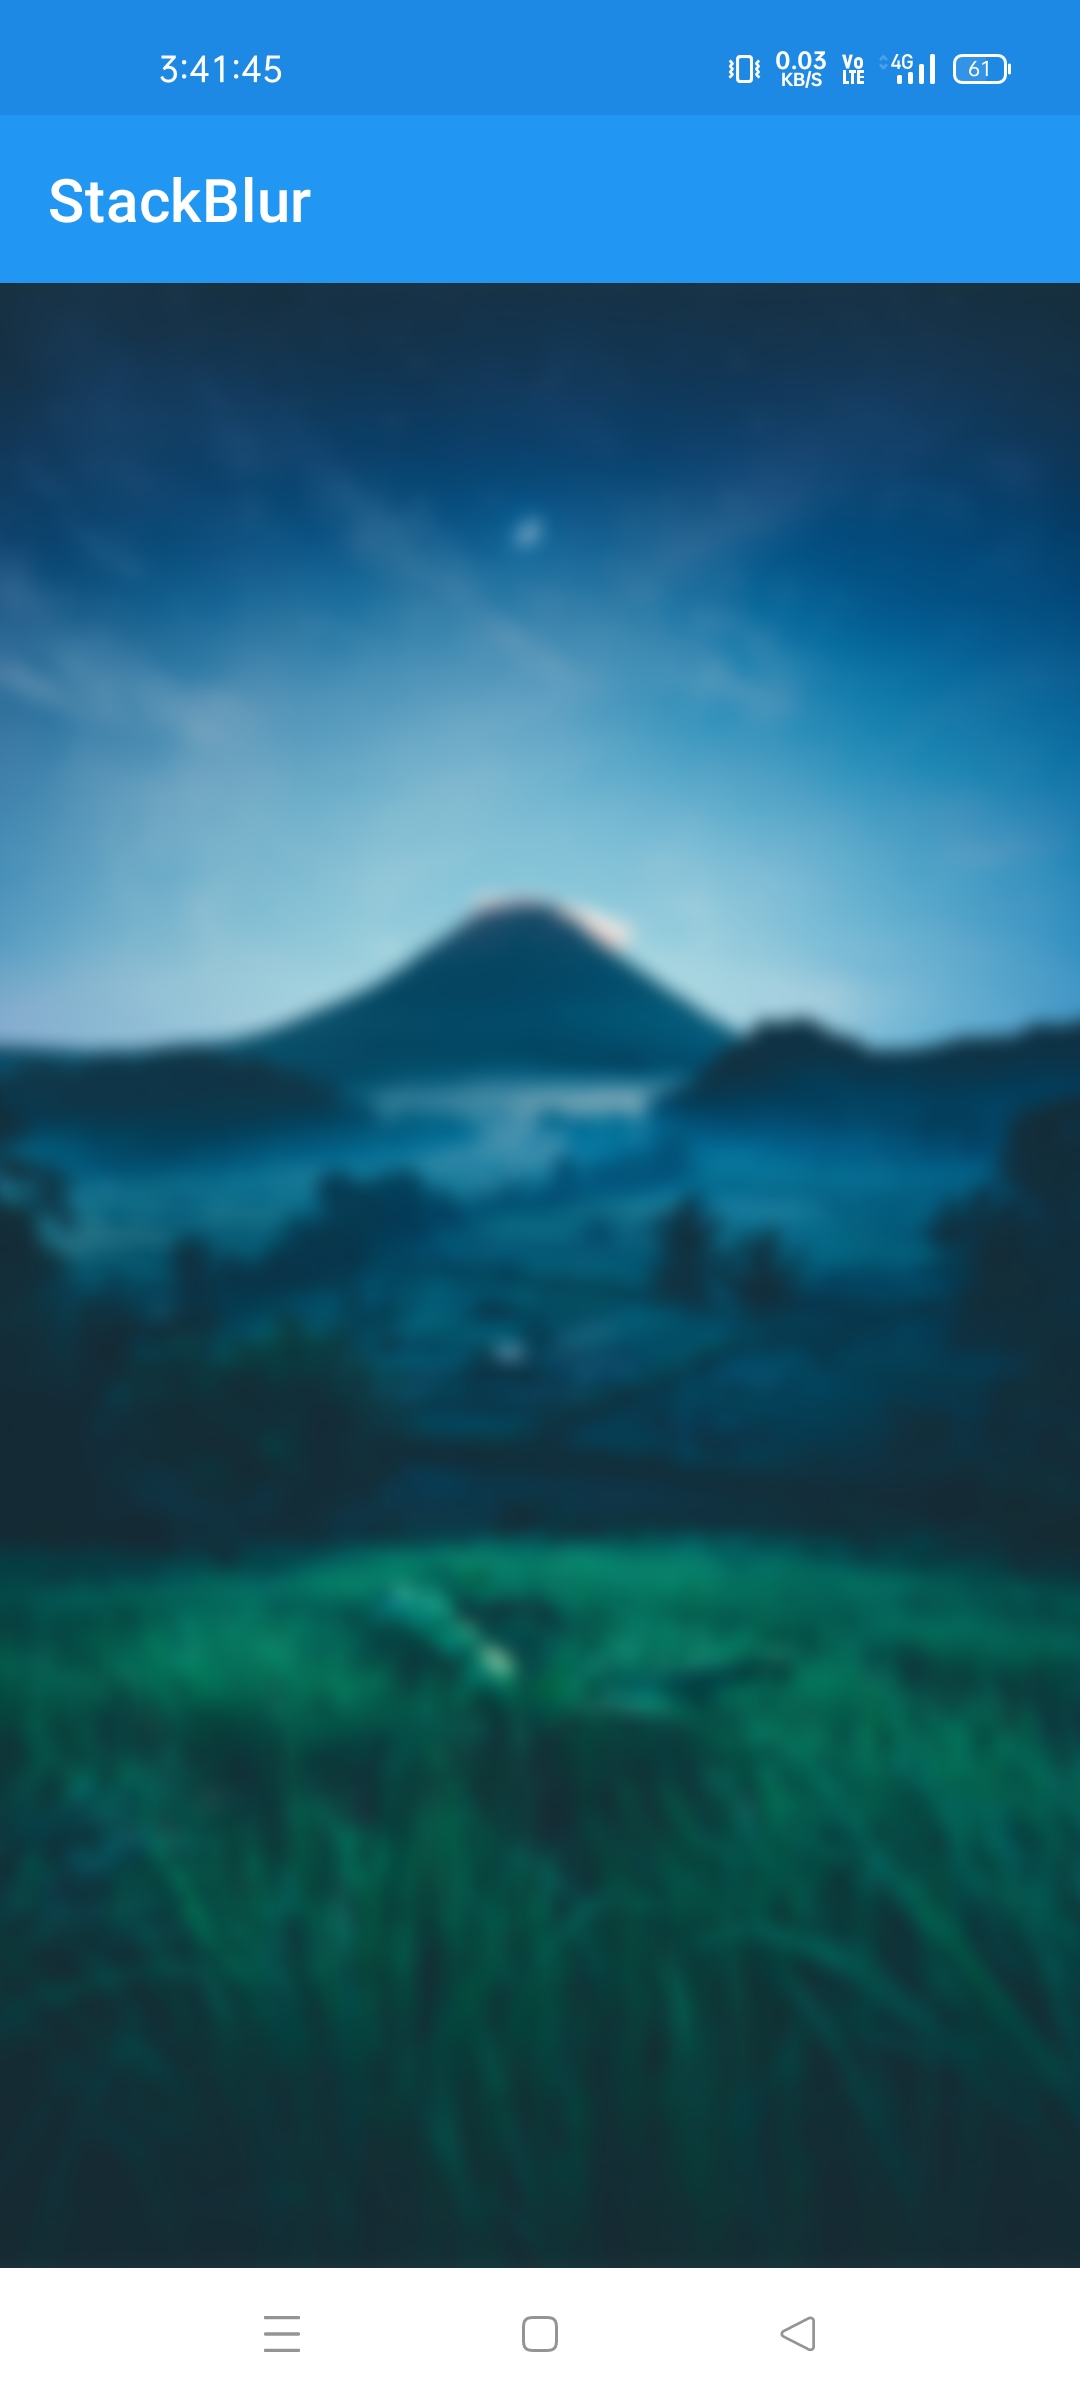
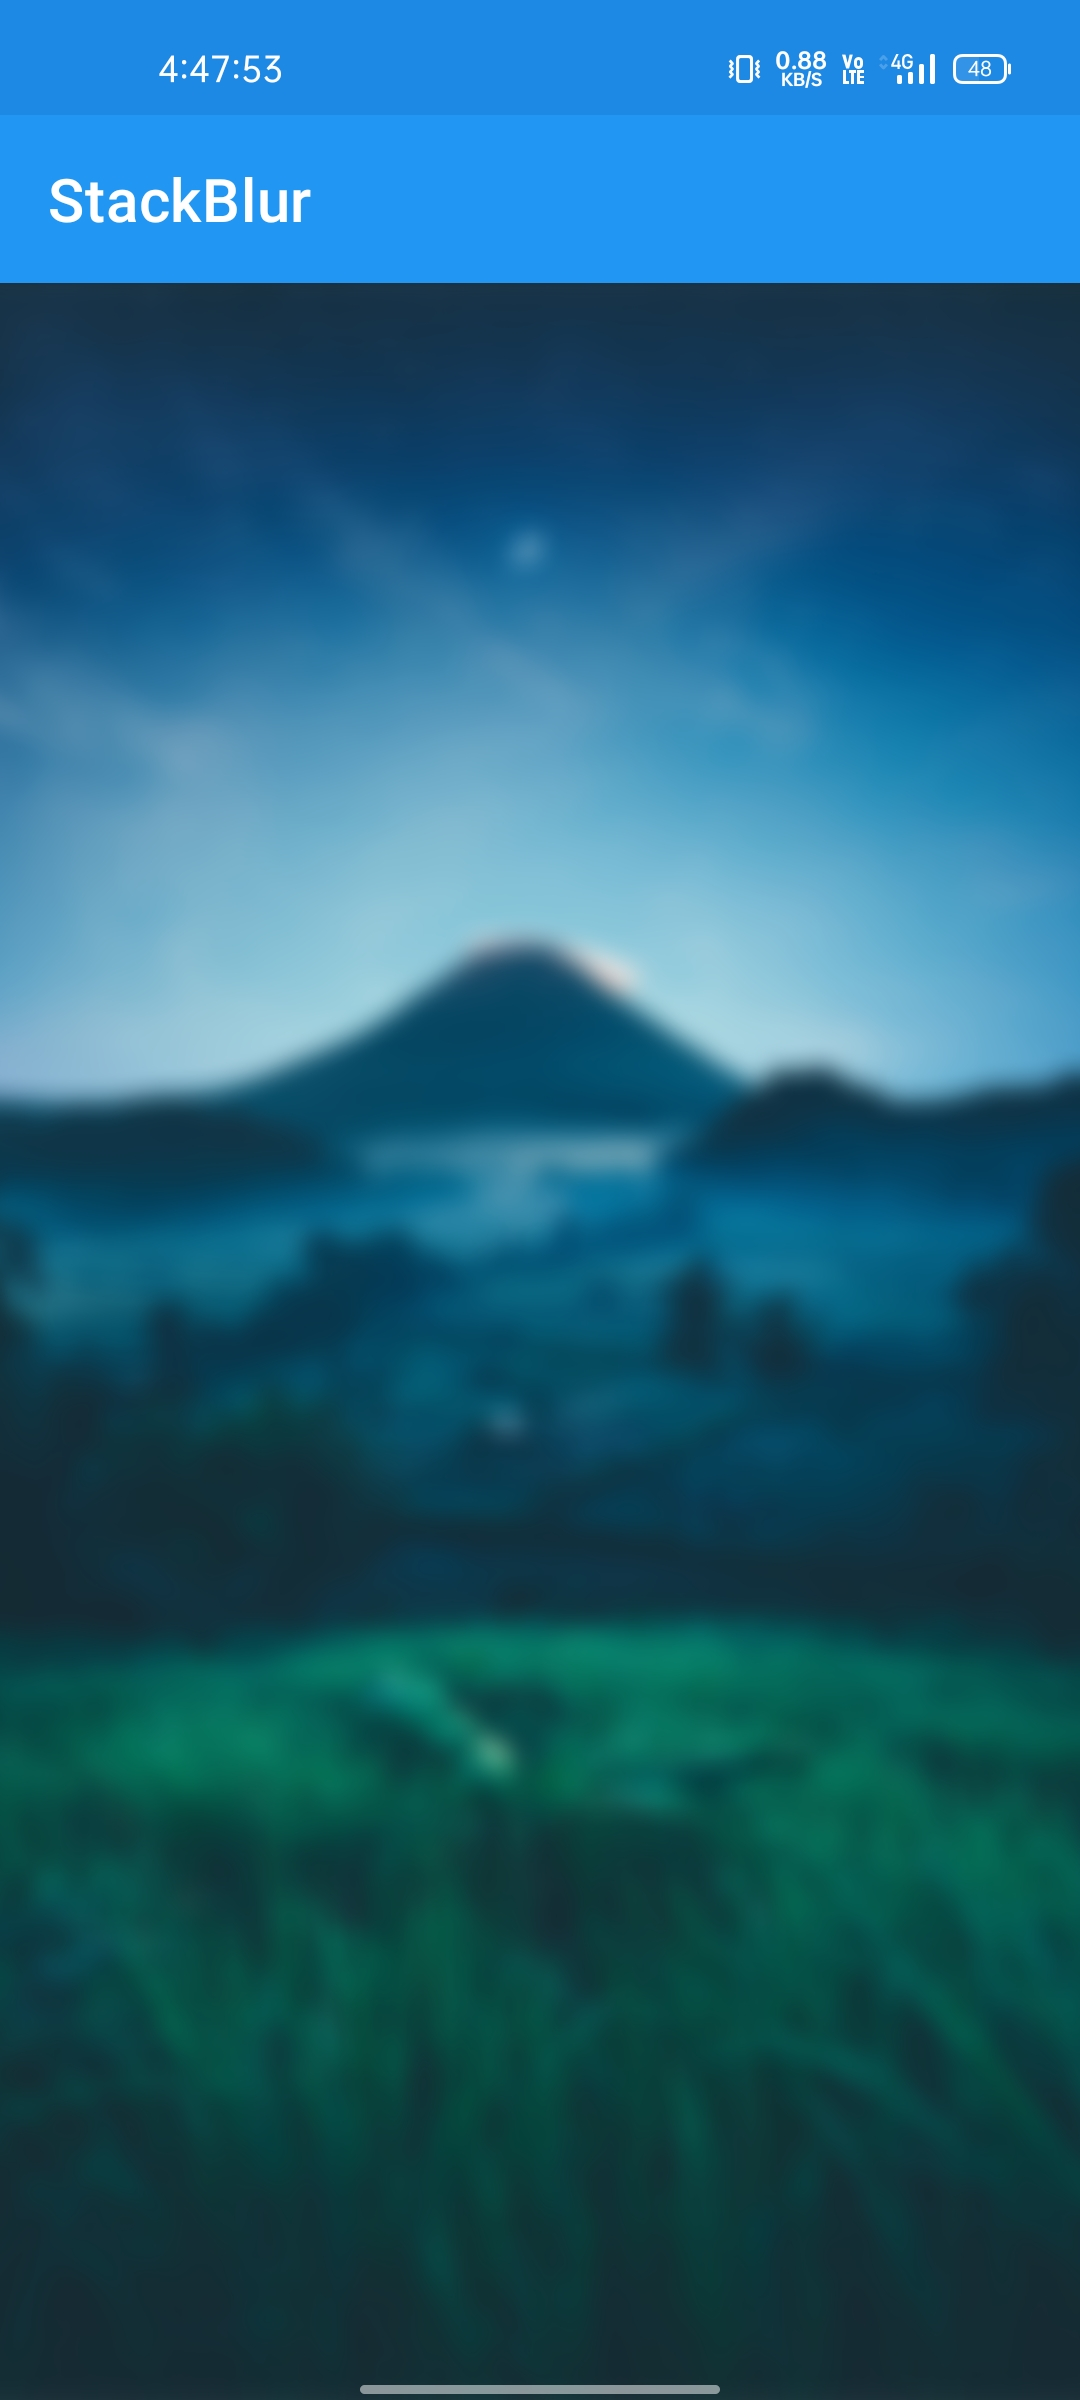
added init method in StackBlur.java

diff --git a/library/src/main/java/com/itsrohit/stackblur/StackBlur.java b/library/src/main/java/com/itsrohit/stackblur/StackBlur.java
@@ -3,17 +3,35 @@ package com.itsrohit.stackblur;
 import android.graphics.Bitmap;
 import java.util.concurrent.Callable;
 import java.util.ArrayList;
+import com.itsrohit.stackblur.utils.Utils;
+import android.util.Log;
 
 public class StackBlur {
+	
+	private static final String TAG = StackBlur.class.getSimpleName();
+	
 	private static native void sBlurBitmap(Bitmap bitmap, int radius);
     private static native void sBlurBitmap2(Bitmap bitmap, int radius, int threadCount, int threadIndex, int round);
 	
-    static {
-        System.loadLibrary("stackblur");
-    }
+	private static String LIB_NAME = "stackblur";
+	private static boolean libLoaded = false;
+	
+	static {
+		initLib();
+	}
+	
+	public static void initLib() {
+		if (libLoaded) {
+			return;
+		}
+	
+		System.loadLibrary(LIB_NAME);
+		libLoaded = true;
+	}
 
 	public static Bitmap blurBitmap(Bitmap bitmap, int radius) {
 		if (bitmap == null || radius <= 0) {
+			Log.e(TAG, "blurBitmap failed! bitmap=" + (bitmap == null ? "null" : "not null") + ", radius=" + radius);
 			return bitmap;
 		}
 
@@ -25,6 +43,7 @@ public class StackBlur {
 	
 	public static Bitmap blurBitmap2(Bitmap bitmap, int radius) {
 		if (bitmap == null || radius <= 0) {
+			Log.e(TAG, "blurBitmap2 failed! bitmap=" + (bitmap == null ? " null" : "not null") + ", radius=" + radius);
 			return bitmap;
 		}
 		
@@ -35,8 +54,8 @@ public class StackBlur {
 		ArrayList<BlurTask> horizontal = new ArrayList<BlurTask>(cores);
 		ArrayList<BlurTask> vertical = new ArrayList<BlurTask>(cores);
 		for (int i = 0; i < cores; i++) {
-			horizontal.add(new BlurTask(bitmapOut, (int) radius, cores, i, 1));
-			vertical.add(new BlurTask(bitmapOut, (int) radius, cores, i, 2));
+			horizontal.add(new BlurTask(bitmapOut, radius, cores, i, 1));
+			vertical.add(new BlurTask(bitmapOut, radius, cores, i, 2));
 		}
 
 		try {

diff --git a/library/src/main/cpp/stackblur.cpp b/library/src/main/cpp/stackblur.cpp
@@ -15,13 +15,13 @@ extern "C" {
 
         // Check radius
         if (radius < 1) {
-            LOGE("failed !  radius=%d", radius);
+            LOGE("check radius failed! radius=%d", radius);
             return;
         }
 
         // get image info
         if ((reason = AndroidBitmap_getInfo(env, bitmap, & info)) != ANDROID_BITMAP_RESULT_SUCCESS) {
-            LOGE("AndroidBitmap_getInfo() failed ! error=%d", reason);
+            LOGE("AndroidBitmap_getInfo() failed! error=%d", reason);
             return;
         }
 
@@ -280,12 +280,11 @@ extern "C" {
         // Properties
         AndroidBitmapInfo   info;
         void*               pixels;
-
         int reason;
 
         // Get image info
         if ((reason = AndroidBitmap_getInfo(env, bitmap, &info)) != 0) {
-            LOGE("AndroidBitmap_getInfo() failed ! error=%d", reason);
+            LOGE("AndroidBitmap_getInfo() failed! error=%d", reason);
             return;
         }
 
@@ -298,7 +297,7 @@ extern "C" {
 
         // Lock all images
         if ((reason = AndroidBitmap_lockPixels(env, bitmap, &pixels)) != 0) {
-            LOGE("AndroidBitmap_lockPixels() failed ! error=%d", reason);
+            LOGE("AndroidBitmap_lockPixels() failed! error=%d", reason);
             return;
         }
 

diff --git a/app/src/main/java/com/itsrohit/stackblursample/StackBlurApp.java b/app/src/main/java/com/itsrohit/stackblursample/StackBlurApp.java
@@ -2,6 +2,7 @@ package com.itsrohit.stackblursample;
 
 import android.app.Application;
 import cat.ereza.customactivityoncrash.config.CaocConfig;
+import com.itsrohit.stackblur.StackBlur;
 
 public class StackBlurApp extends Application {
 
@@ -14,9 +15,12 @@ public class StackBlurApp extends Application {
 			.enabled(true)
 			.showErrorDetails(true)
 			.showRestartButton(true)
-			.logErrorOnRestart(true)
+			.logErrorOnRestart(true) 
 			.trackActivities(true)
 			.minTimeBetweenCrashesMs(2000)
 			.apply();
+			
+		// init StackBlur lib (not requried)
+		StackBlur.initLib();
 	}
 }

diff --git a/library/src/main/java/com/itsrohit/stackblur/utils/Utils.java b/library/src/main/java/com/itsrohit/stackblur/utils/Utils.java
@@ -1,12 +1,13 @@
-package com.itsrohit.stackblur;
+package com.itsrohit.stackblur.utils;
 
 import java.util.concurrent.ExecutorService;
 import java.util.concurrent.Executors;
 
 public class Utils {
+	
     public static final int EXECUTOR_THREADS = Runtime.getRuntime().availableProcessors();
 	public static final ExecutorService EXECUTOR = Executors.newFixedThreadPool(EXECUTOR_THREADS);
 	
-    public Utils() {
+    private Utils() {
 	}
 }

diff --git a/app/src/main/java/com/itsrohit/stackblursample/ui/MainActivity.java b/app/src/main/java/com/itsrohit/stackblursample/ui/MainActivity.java
@@ -31,6 +31,6 @@ public class MainActivity extends AppCompatActivity {
 	private void loadBluredImage() {
 		// StackBlur#blurBitmap2 method suports multi thered and faster
 		Bitmap bitmap = BitmapFactory.decodeResource(getResources(), R.drawable.sample_img);
-		blurImageView.setImageBitmap(StackBlur.blurBitmap2(bitmap, 40));
+		blurImageView.setImageBitmap(StackBlur.blurBitmap2(bitmap, 50));
 	}
 }
